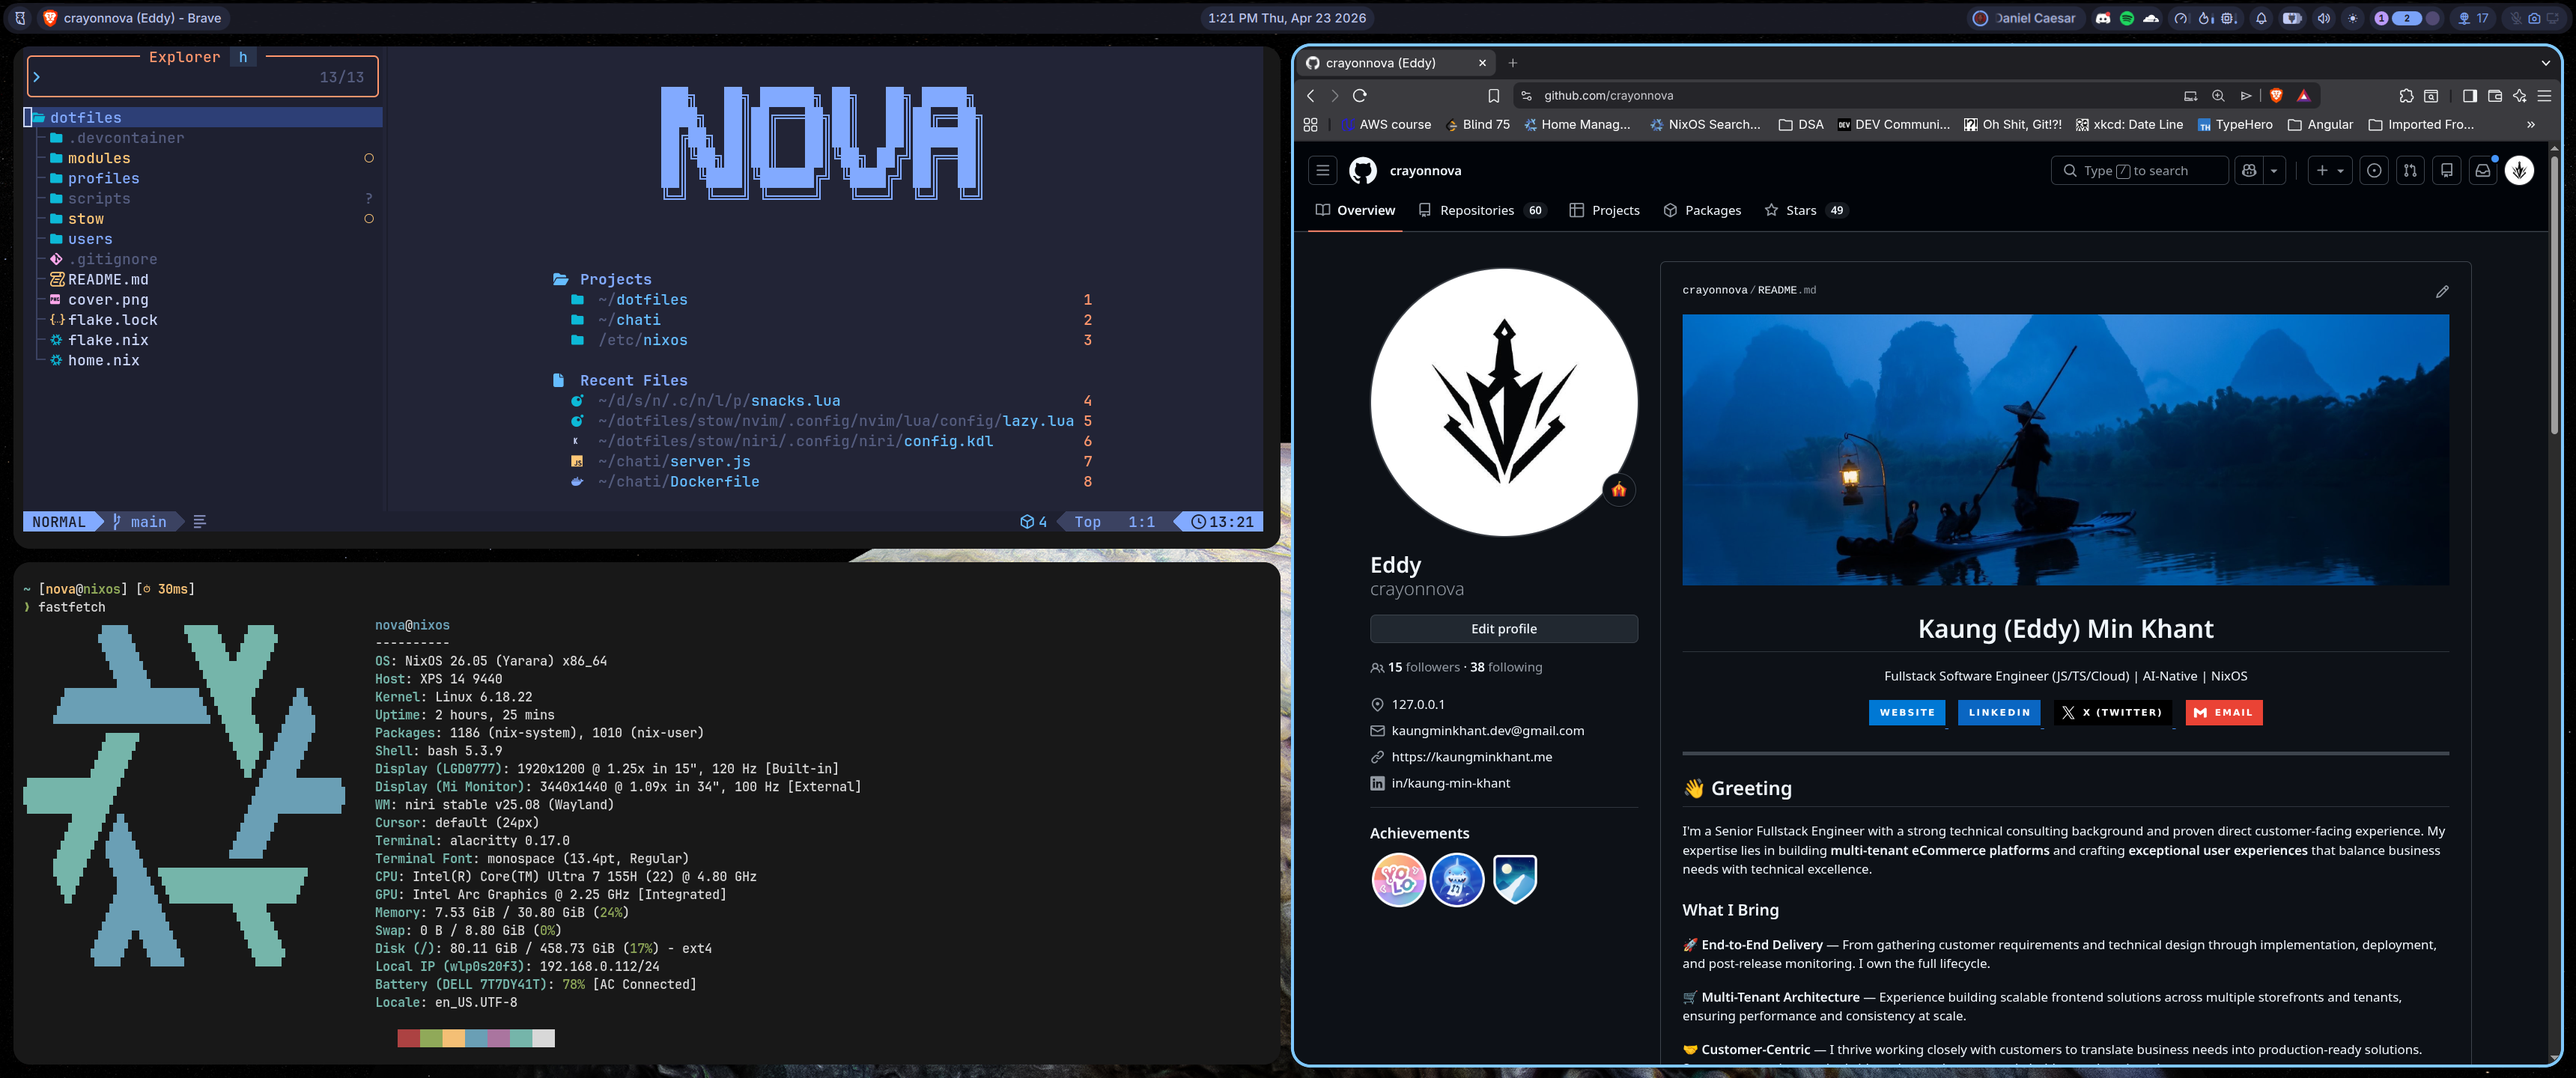
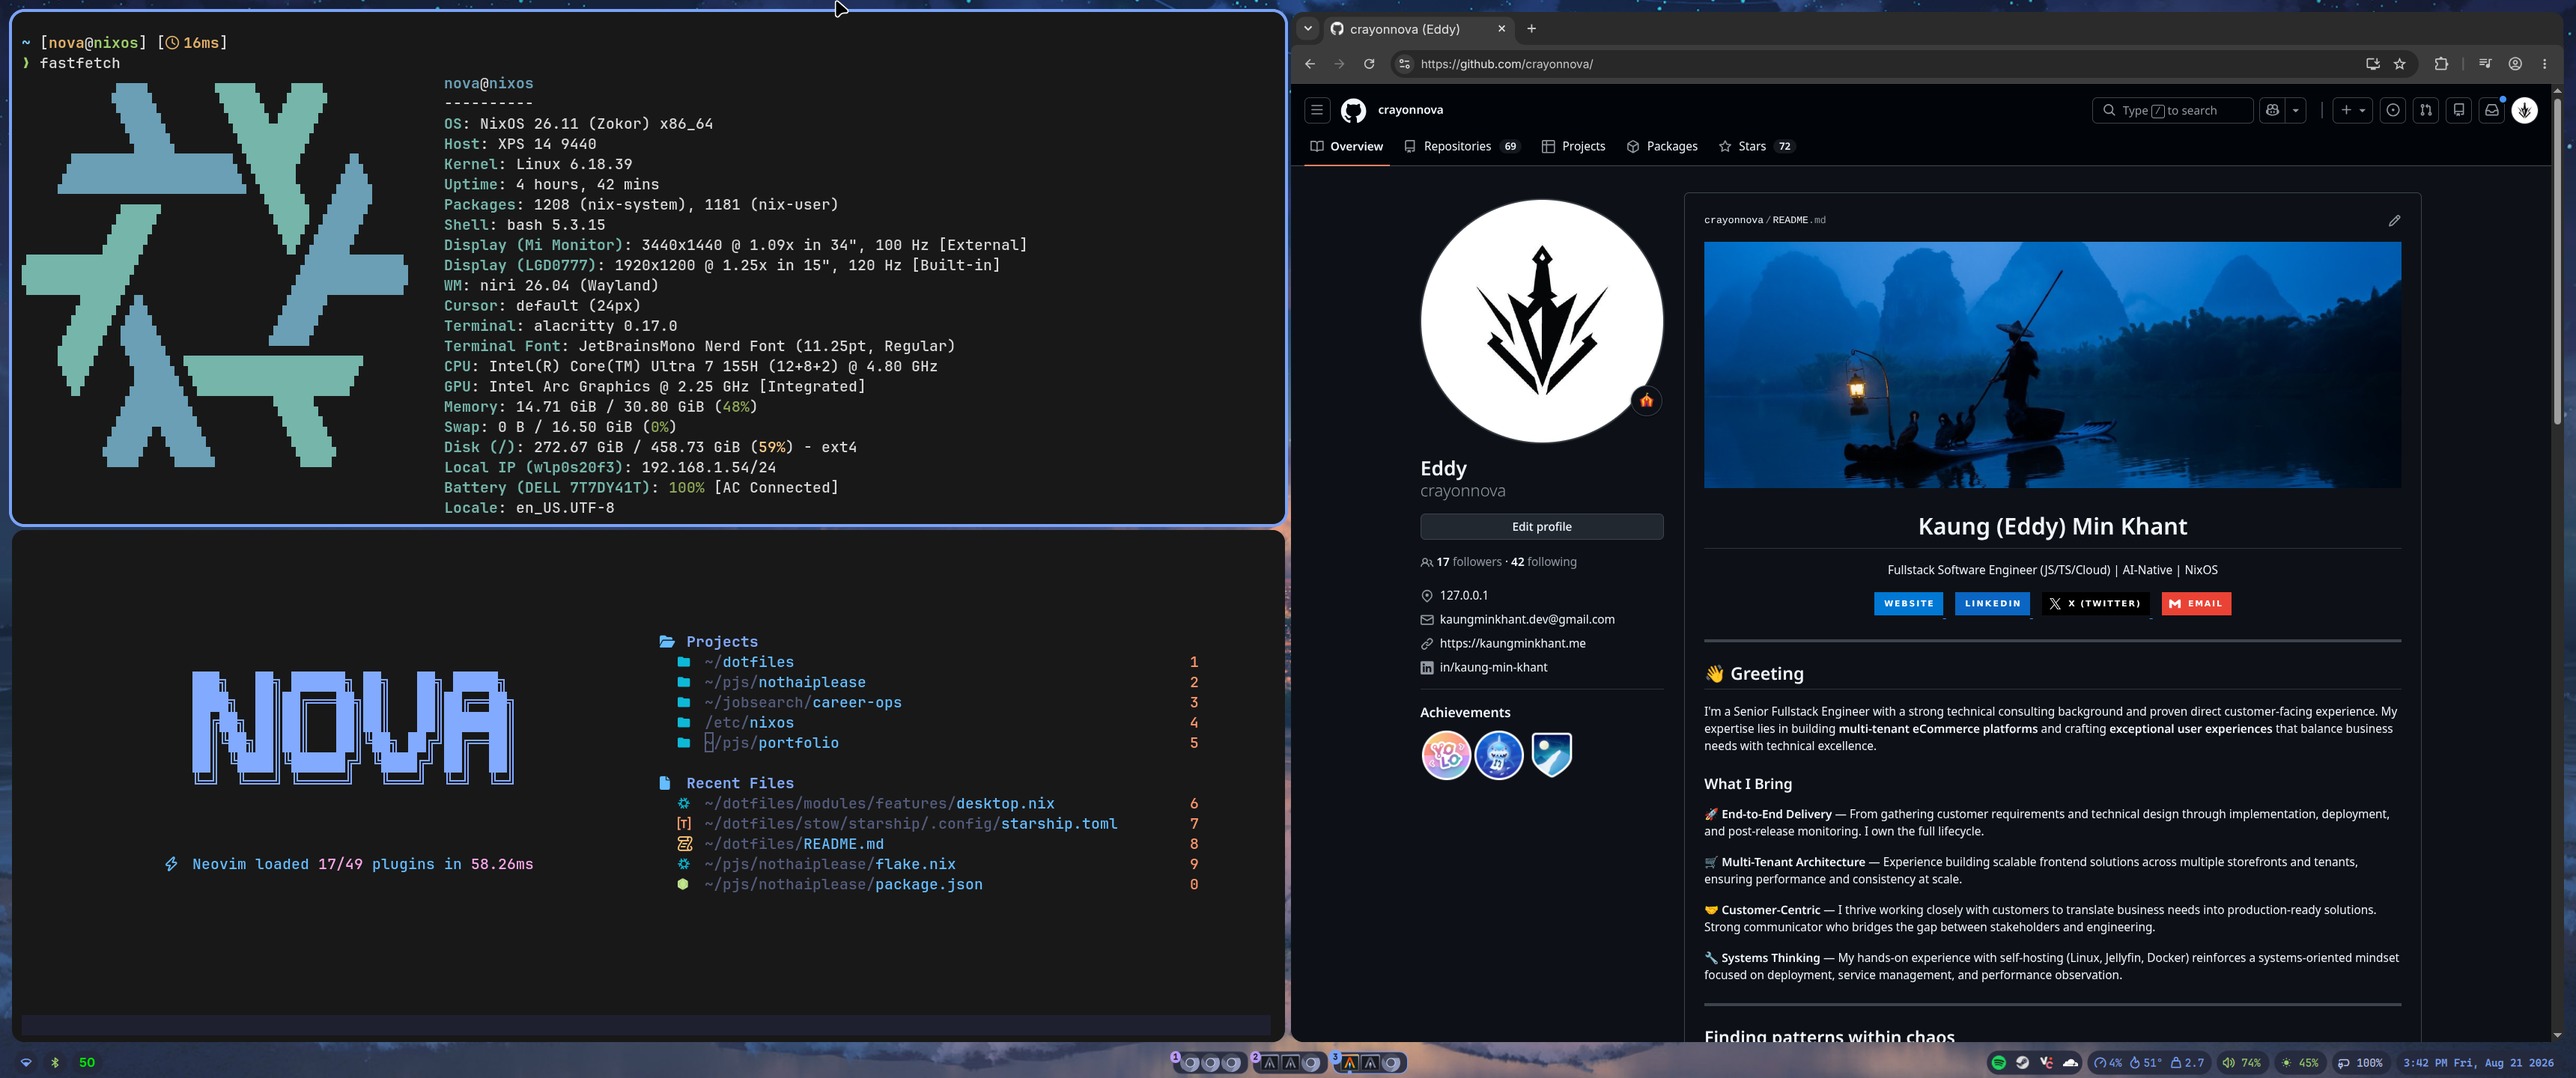
Updated README.md

diff --git a/README.md b/README.md
@@ -13,21 +13,36 @@ It captures my daily personal and development setup across multiple users and ma
 ```text
 dotfiles/
 ├── flake.nix                    # Flake entrypoint; defines Home Manager targets and composes shared, user, and profile modules.
-├── flake.lock                   # Locked upstream inputs such as nixpkgs, home-manager, niri, and noctalia.
+├── flake.lock                   # Locked upstream inputs such as nixpkgs, home-manager, niri, noctalia, and lightpanda.
 ├── home.nix                     # Shared Home Manager base; defines `myconfig` options and imports repo modules.
+├── CLAUDE.md                    # Agent-facing map of the repo.
 ├── README.md                    # Top-level repo guide.
 │
 ├── modules/                     # Reusable Home Manager modules grouped by concern.
-│   ├── base/                    # Core shell, CLI tool, and package definitions.
-│   ├── features/                # Optional feature modules such as dev tools, desktop apps, fonts, and Noctalia.
-│   ├── system/                  # Environment-specific overrides such as Codespaces.
-│   └── wayland/                 # Wayland desktop modules, including Niri and related tools.
+│   ├── base/
+│   │   ├── packages.nix         # Base packages, per-feature optionals, pointer cursor theme.
+│   │   ├── shell.nix            # Bash, starship, atuin, zoxide, direnv, carapace, eza, aliases, helper shell functions.
+│   │   └── cli-tools.nix        # ripgrep, bat, tmux; npm user-config redirect.
+│   ├── features/
+│   │   ├── dev-tools.nix        # Neovim, zed, git/gh/gh-dash/lazygit, bun, fabric-ai, dbeaver, lightpanda service.
+│   │   ├── desktop.nix          # WezTerm, GTK icon theme, browsers, opencode/claude-code, optional end-user apps.
+│   │   ├── fonts.nix            # fontconfig default families.
+│   │   └── noctalia.nix         # Noctalia shell homeModule + config symlink.
+│   ├── system/
+│   │   └── codespace.nix        # Codespaces-specific overrides.
+│   └── wayland/
+│       ├── default.nix          # niri-flake homeModule import + niri config symlink.
+│       └── packages.nix         # Terminals, fuzzel, clipboard (wl-clipboard/cliphist), normcap OCR.
 │
-├── profiles/                    # Feature presets for desktop, CLI-only, and Codespaces setups.
+├── profiles/                    # Feature presets: desktop, cli-dev, codespace.
 ├── users/                       # Per-user identity modules with username and Home Manager state version.
 ├── stow/                        # GNU Stow-compatible dotfile source tree mirrored to home-directory paths.
 │   ├── alacritty/               # Alacritty terminal config.
+│   ├── bun/                     # Bun config (.bunfig.toml).
+│   ├── claude-code/             # Claude Code settings.json.
 │   ├── fuzzel/                  # Fuzzel launcher config.
+│   ├── ghostty/                 # Ghostty terminal config.
+│   ├── kitty/                   # Kitty terminal config.
 │   ├── niri/                    # Niri compositor config.
 │   ├── noctalia/                # Noctalia shell config.
 │   ├── nvim/                    # Neovim config.
@@ -37,21 +52,82 @@ dotfiles/
 │   └── wezterm/                 # WezTerm config.
 │
 ├── scripts/                     # Helper scripts used by shell aliases and local workflows.
+│   ├── ai-cmd                   # `ai <description>` — natural language to shell command.
+│   ├── fuzzel-home-search.sh    # Fuzzel-driven home directory search.
+│   ├── hm-outdated.sh           # `lpkgs` — list outdated Home Manager packages.
+│   ├── listallusers.sh          # `listallusers` — enumerate system users.
+│   └── nix-edit.sh              # `nedit` — jump into a Nix config file.
 └── .devcontainer/               # Codespaces/devcontainer bootstrap files.
 ```
 
+## Home Manager targets
+
+| Target | User | Profile |
+|---|---|---|
+| `crayon@nixos` | `users/crayon.nix` | `desktop` |
+| `crayon@nixie` | `users/crayon.nix` | `desktop` |
+| `nova@nixos` | `users/nova.nix` | `desktop` |
+| `kaungminkhant@DESKTOP-JA8S7GL` | `users/kaungminkhant.nix` | `desktop` |
+| `crayon@nixoswsl` | `users/crayon.nix` | `cli-dev` |
+| `vscode@codespaces` | `users/vscode.nix` | `codespace` |
+
+All targets are `x86_64-linux`.
+
+## Feature flags
+
+`myconfig.features` gates every optional module.
+
+| Flag | Enables |
+|---|---|
+| `devtools` | Neovim + LSPs, zed, git/gh/lazygit, bun, ollama, awscli2, cloudflared, lightpanda |
+| `desktop` | Niri/Wayland, terminals, Noctalia bar, WezTerm, cursor + icon themes |
+| `software` | Spotify, browsers, Obsidian, Steam, Discord/Vesktop, OpenCode, Claude Code, media apps |
+| `fonts` | JetBrains Mono Nerd, Cascadia Code, Inter, Noto (incl. CJK + emoji) |
+
+- `profiles/desktop.nix` — all four `true`.
+- `profiles/cli-dev.nix` — `devtools` + `fonts` only.
+- `profiles/codespace.nix` — imports `cli-dev` and sets `myconfig.system.isCodespace`.
+
 ## How repo is composed
 
-- `flake.nix` declares Home Manager outputs for different user@host targets.
+- `flake.nix` declares Home Manager outputs for each user@host target and applies the lightpanda overlay.
 - `users/*.nix` provides identity-specific values such as username and state version.
-- `profiles/*.nix` toggles high-level feature sets like desktop, devtools, software, and fonts.
-- `home.nix` imports shared modules from `modules/`.
-- Many modules link config files from `stow/` with Home Manager, while `stow/README.md` keeps manual Stow usage available as fallback.
+- `profiles/*.nix` toggles high-level feature sets.
+- `home.nix` declares the `myconfig` option tree and imports every module from `modules/`.
+- Modules link config files from `stow/` with `mkOutOfStoreSymlink`, so edits under `stow/` take effect immediately without a rebuild. `stow/README.md` keeps manual GNU Stow usage available as fallback.
+
+## Apply config
+
+```bash
+# From dotfiles root
+home-manager switch --flake .#<user>@<host>
+# e.g.
+home-manager switch --flake .#nova@nixos
+
+# Or with nh
+nh home switch .
+
+# Shell aliases defined in modules/base/shell.nix
+hh    # home-manager switch --flake .
+hhr   # switch, then log out
+```
+
+## Flake inputs
+
+- `nixpkgs` — nixos-unstable
+- `home-manager` — follows nixpkgs
+- `niri` — `sodiboo/niri-flake`
+- `noctalia` — `noctalia-dev/noctalia` (`legacy-v4` branch)
+- `lightpanda` — headless browser + CDP server; provides an overlay and a `services.lightpanda` user service on `127.0.0.1:9222`
+
+> **Note:** `lightpanda` is currently pinned to a local path (`path:/home/nova/lightpanda-nix`), so the flake will not evaluate on another machine until that input points at `github:crayonnova/lightpanda-nix`.
+
+`nixpkgs` is configured with `allowUnfree = true` and `permittedInsecurePackages` for `electron-39.8.10` and `pnpm-10.29.2`.
 
 ## Notes
 
 - Main target platform is `x86_64-linux`, with NixOS-oriented workflows and a Codespaces profile.
-- Desktop path uses Wayland with Niri, plus companion tools like fuzzel, swaylock, swayidle, mako, grim, and slurp.
+- Desktop path uses Wayland with Niri, plus companion tools like fuzzel, wl-clipboard, cliphist, normcap, playerctl, brightnessctl, and PipeWire patchbays (qpwgraph, helvum).
 - Reproducibility comes from flake-pinned package inputs; most user-facing app configs are stored in this repo and linked into place.
 
 Feel free to explore repo, and ping me if you want to chat about any part of it.
